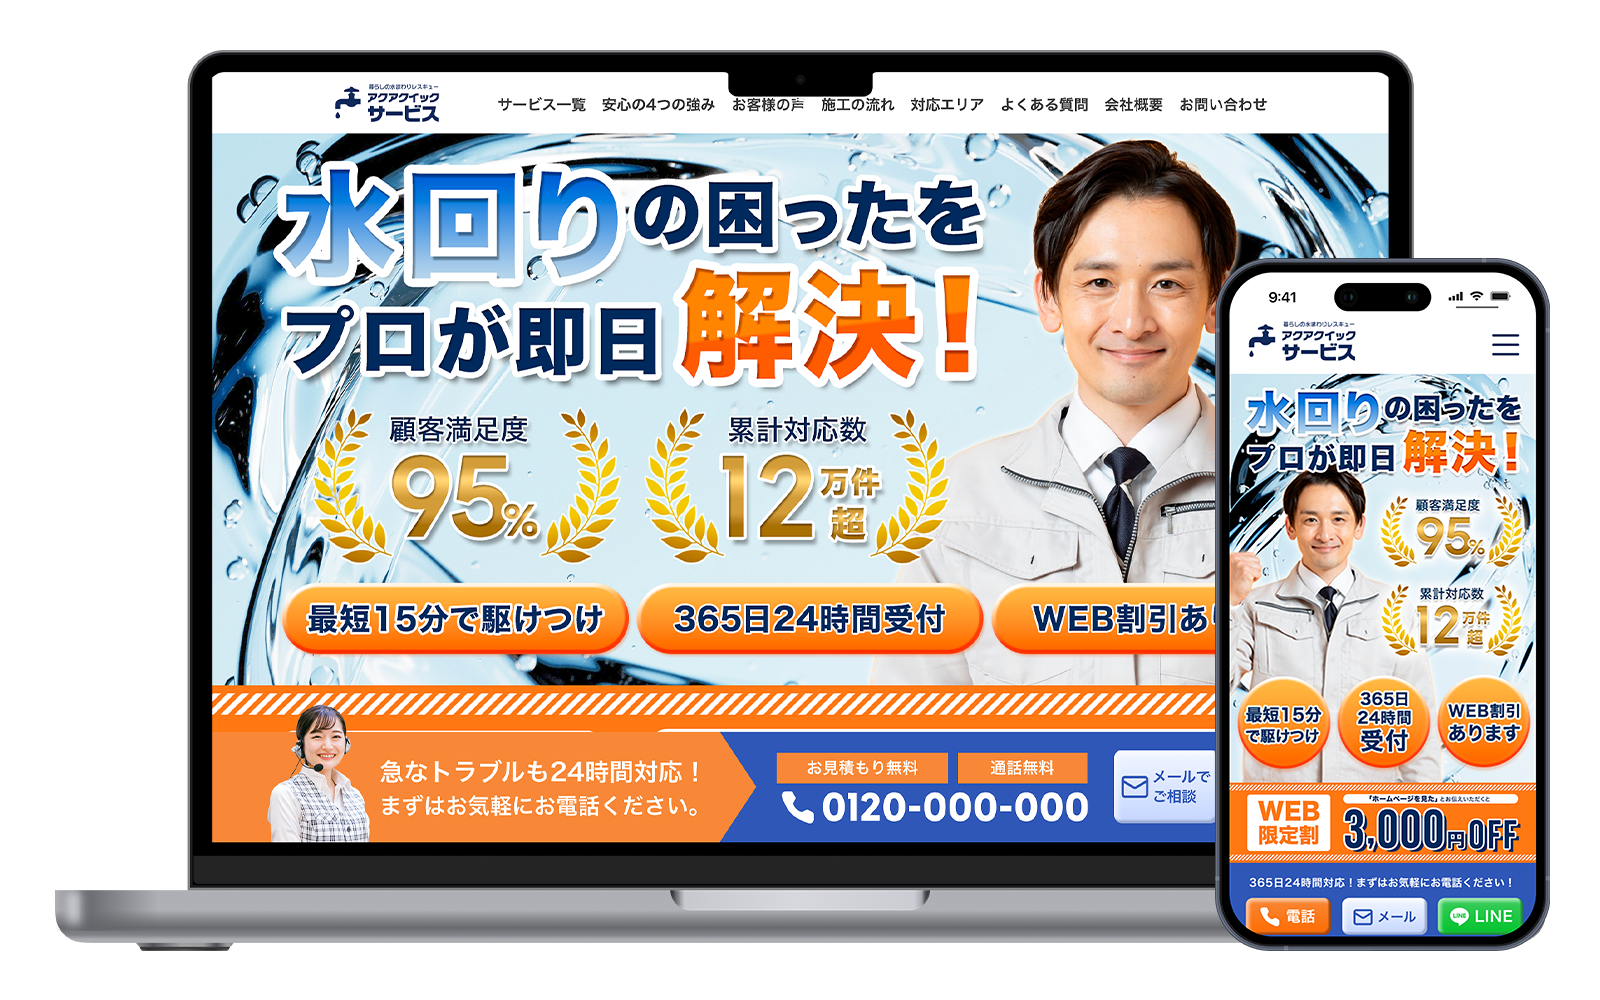
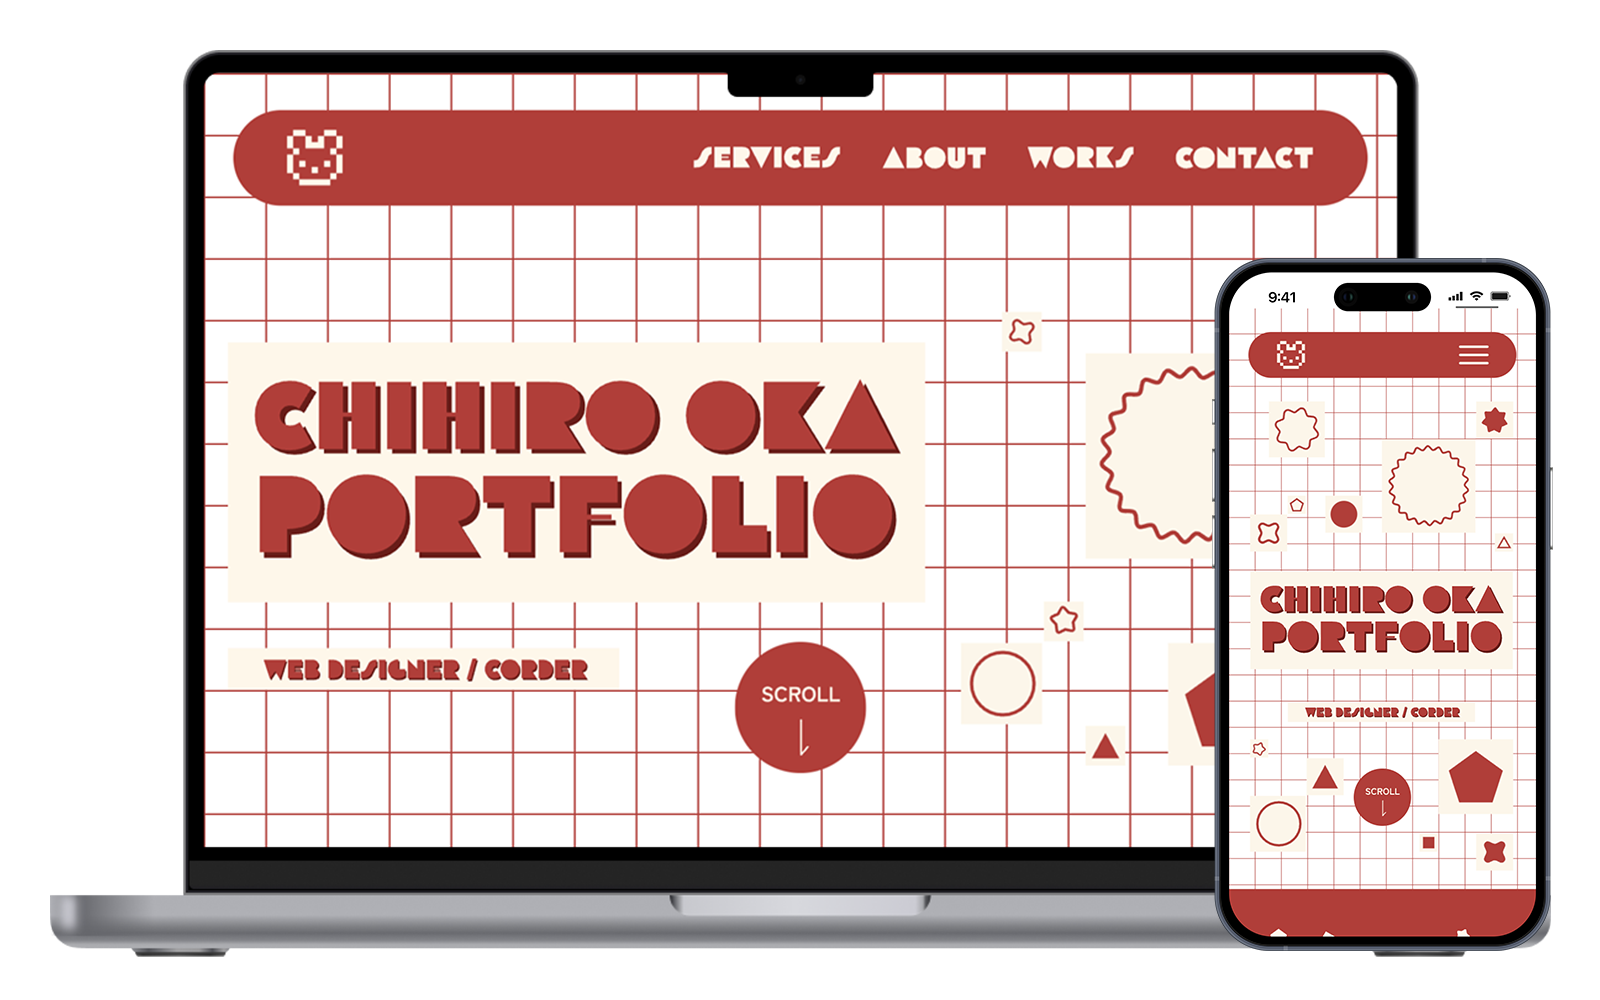
works thumb add

diff --git a/index.html b/index.html
@@ -788,7 +788,7 @@
             <!-- 表示させる作品（6つ） -->
             <div class="works-item" data-modal="portfolio">
               <div class="works-thumb">
-                <img src="img/banner-aojiru-thumb.png" alt="ポートフォリオサイト サムネイル">
+                <img src="img/pf-portfolio-thumb.png" alt="ポートフォリオサイト サムネイル">
               </div>
               <h3 class="works-title">ポートフォリオサイト</h3>
               <ul class="works-tag-list">
@@ -1285,7 +1285,6 @@
               </div>
 
               <div class="modal-works-thumb">
-                <!-- サムネ（あとで差し替え） -->
                 <img
                   src="img/banner-gyousei-main.png"
                   alt="行政書士サイトのトップページ用バナー">
@@ -1293,7 +1292,7 @@
 
               <!-- 掲載ページ（実サイト）へのボタン -->
               <a
-                href="#"
+                href="https://shakaifukushi.gsss.pro/"
                 class="modal-works-btn"
                 target="_blank"
                 rel="noopener">
